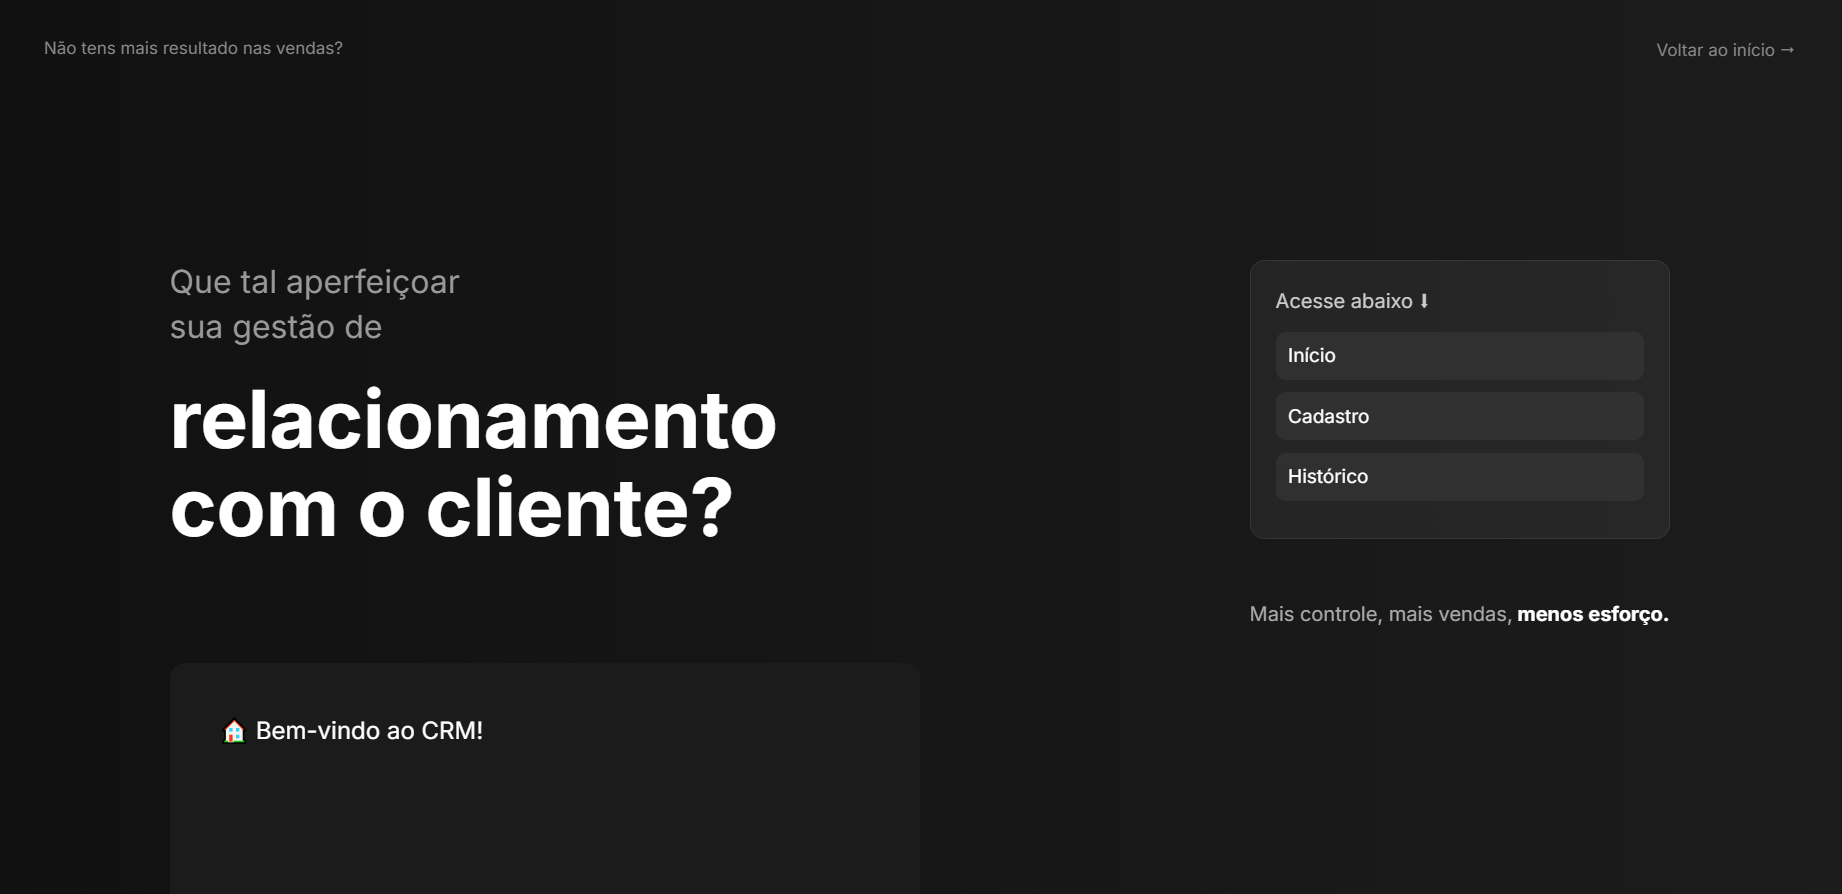
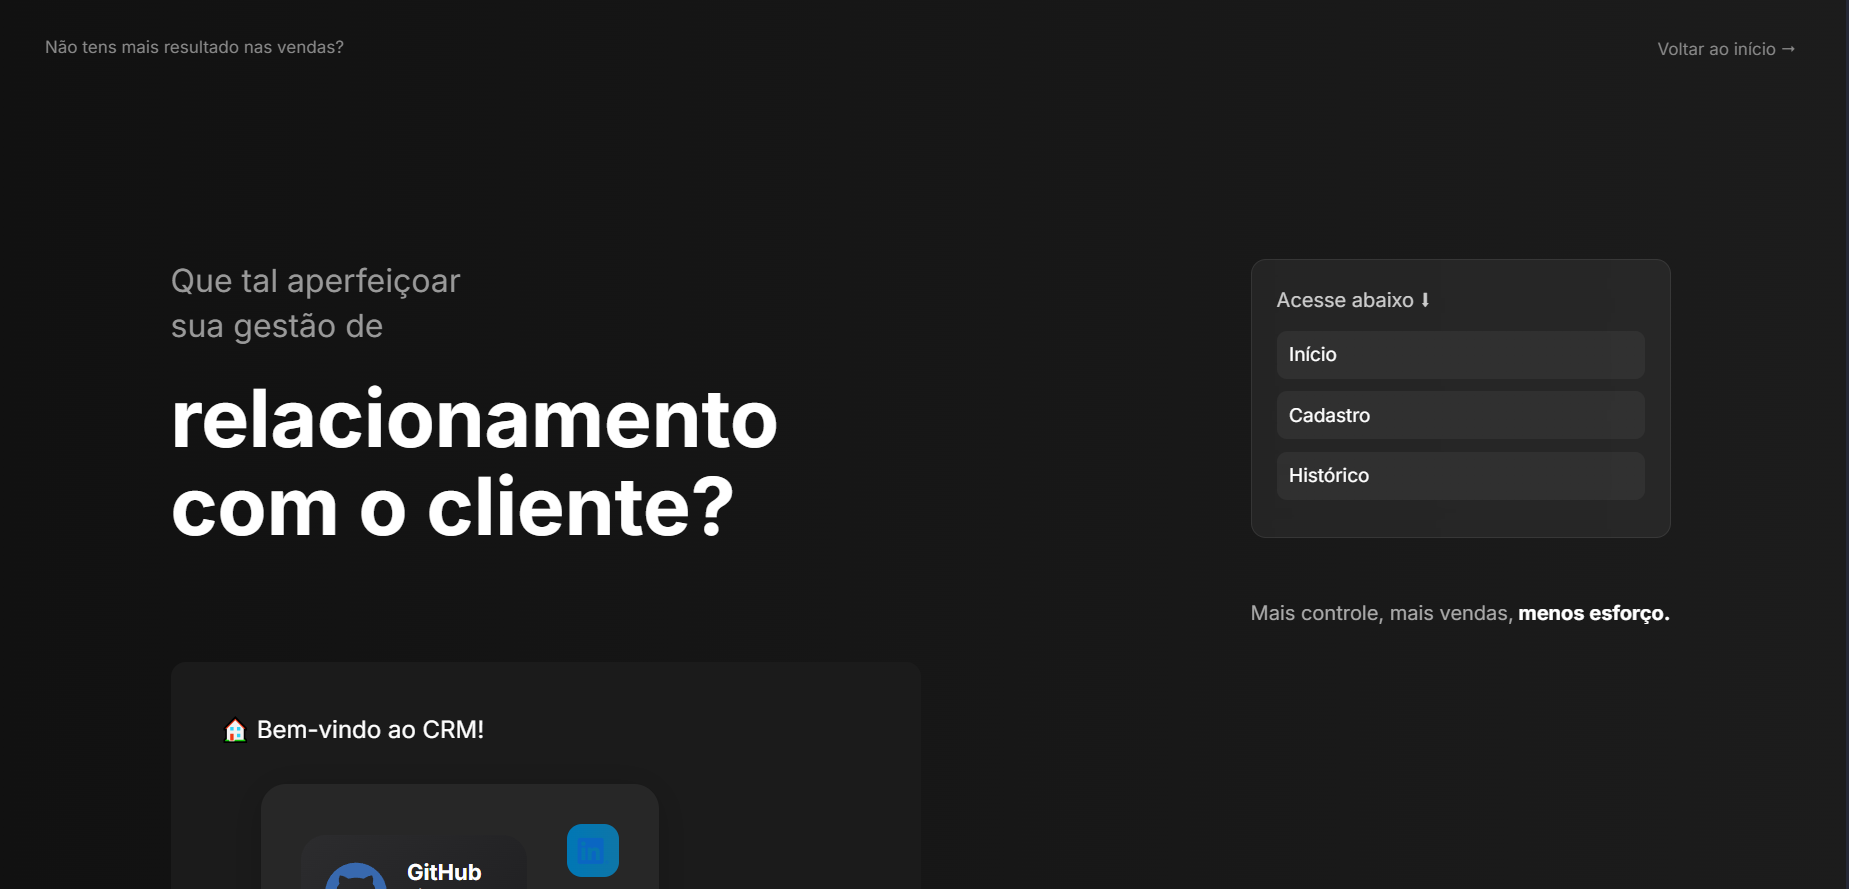
feat: adição de novos ícones na tela inicial e remoção de código antigo

diff --git a/index.html b/index.html
@@ -37,18 +37,25 @@
     <div class="telas-wrapper">
         <div class="telas">
             <section class="tela" id="tela-inicio">🏠 Bem-vindo ao CRM!
+            
+               <div class="social-card">
+                  <div class="github-card">
+                    <img src="src/utils/github icon.svg" alt="GitHub" />
+                    <div class="github-info">
+                      <h3>GitHub</h3>
+                      <p>github.com<br />eaetomaz</p>
+                    </div>
+                  </div>
+                  <div class="social-icons">
+                    <a href="https://www.linkedin.com/in/guilherme-tomaz-2941a3335/" target="_blank" class="icon linkedin">
+                      <img src="src/utils/linkedin-icon.svg" alt="LinkedIn" />
+                    </a>
+                    <a href="https://www.instagram.com/eaetomaz/" target="_blank" class="icon instagram">
+                      <img src="src/utils/instagram-icon.svg" alt="Instagram" />
+                    </a>
+                  </div>
+                </div>
 
-               <div class="autor">
-                  <a href="https://github.com/eaetomaz" target="_blank">
-                    <i class="fab fa-github iconHome"></i> https://github.com/eaetomaz
-                  </a>
-                  <a href="https://www.linkedin.com/in/guilherme-tomaz-2941a3335/" target="_blank">
-                    <i class="fab fa-linkedin iconHome"></i> https://www.linkedin.com/in/guilherme-tomaz-2941a3335/
-                  </a>
-                  <a href="https://www.instagram.com/eaetomaz/" target="_blank">
-                    <i class="fab fa-instagram iconHome"></i> https://www.instagram.com/eaetomaz/
-                  </a>
-               </div>                 
 
             </section>
 

diff --git a/src/styles/style.css b/src/styles/style.css
@@ -130,7 +130,7 @@
     .telas-wrapper {
         overflow: hidden;
         width: 50%;
-        height: 500px; /* ajuste conforme sua necessidade */
+        height: 500px;
         margin-top: 30px;
         border-radius: 12px;
         background: #1b1b1b;
@@ -218,6 +218,72 @@
 
     #list button:hover {
         border: 1px solid gray;
+    }
+
+    .social-card {
+      display: flex;
+      align-items: center;
+      gap: 2rem;
+      background: rgba(255, 255, 255, 0.05);
+      border-radius: 20px;
+      padding: 2rem;
+      backdrop-filter: blur(12px);
+      box-shadow: 0 4px 30px rgba(0, 0, 0, 0.2);
+      width: fit-content;
+      margin: 2rem;
+    }
+
+    .github-card {
+      display: flex;
+      align-items: center;
+      background: linear-gradient(135deg, #2c2c2e, #1f1f21);
+      border-radius: 20px;
+      padding: 1.2rem;
+      gap: 1rem;
+    }
+
+    .github-card img {
+      width: 50px;
+      height: 50px;
+      filter: brightness(0.9);
+    }
+
+    .github-info h3 {
+      margin: 0;
+      font-size: 1.1rem;
+    }
+
+    .github-info p {
+      margin: 0;
+      font-size: 0.9rem;
+      color: #ccc;
+    }
+
+    .social-icons {
+      display: flex;
+      flex-direction: column;
+      gap: 1rem;
+    }
+
+    .icon img {
+      width: 42px;
+      height: 42px;
+      border-radius: 12px;
+      padding: 5px;
+      background: rgba(255, 255, 255, 0.1);
+      transition: transform 0.2s ease;
+    }
+
+    .icon:hover img {
+      transform: scale(1.1);
+    }
+
+    .linkedin img {
+      background: linear-gradient(to right, #0077b5, #0e76a8);
+    }
+
+    .instagram img {
+      background: linear-gradient(to right, #f09433, #e6683c, #dc2743, #cc2366, #bc1888);
     }
 
     @media (max-width: 768px) {
